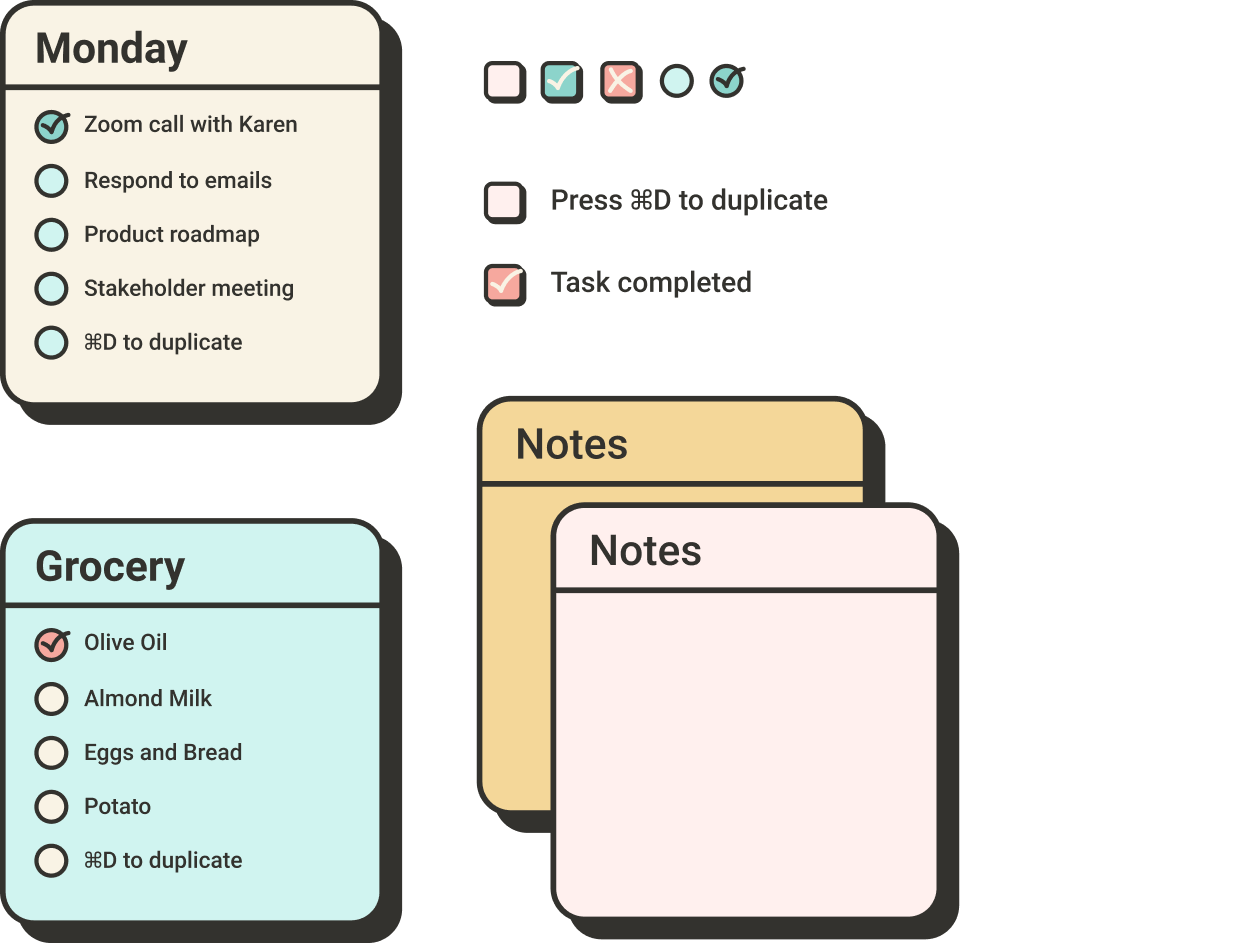
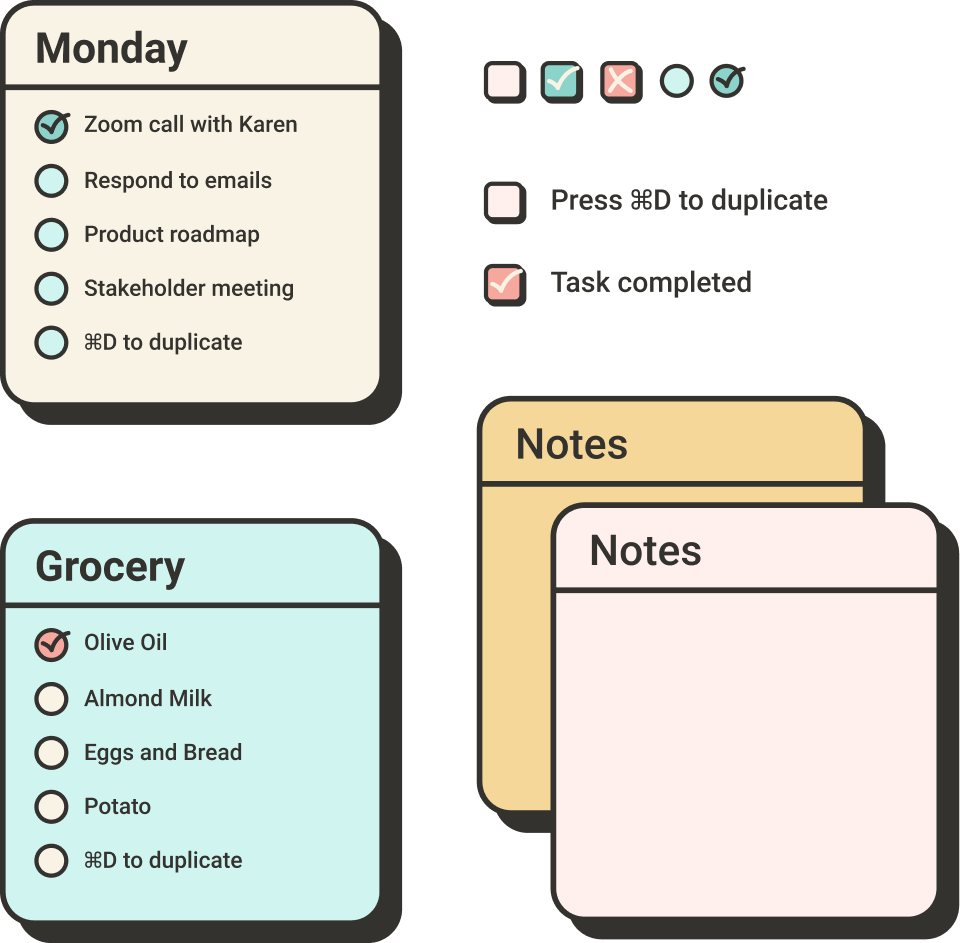
fix layout

diff --git a/style.css b/style.css
@@ -1,11 +1,60 @@
 @import url('https://fonts.googleapis.com/css2?family=Roboto:wght@400;500;700;900&display=swap');
 
+/* http://meyerweb.com/eric/tools/css/reset/
+   v2.0 | 20110126
+   License: none (public domain)
+*/
+
+html, body, div, span, applet, object, iframe,
+h1, h2, h3, h4, h5, h6, p, blockquote, pre,
+a, abbr, acronym, address, big, cite, code,
+del, dfn, em, img, ins, kbd, q, s, samp,
+small, strike, strong, sub, sup, tt, var,
+b, u, i, center,
+dl, dt, dd, ol, ul, li,
+fieldset, form, label, legend,
+table, caption, tbody, tfoot, thead, tr, th, td,
+article, aside, canvas, details, embed,
+figure, figcaption, footer, header, hgroup,
+menu, nav, output, ruby, section, summary,
+time, mark, audio, video {
+	margin: 0;
+	padding: 0;
+	border: 0;
+	font-size: 100%;
+	font: inherit;
+	vertical-align: baseline;
+}
+/* HTML5 display-role reset for older browsers */
+article, aside, details, figcaption, figure,
+footer, header, hgroup, menu, nav, section {
+	display: block;
+}
+body {
+	line-height: 1;
+}
+ol, ul {
+	list-style: none;
+}
+blockquote, q {
+	quotes: none;
+}
+blockquote:before, blockquote:after,
+q:before, q:after {
+	content: '';
+	content: none;
+}
+table {
+	border-collapse: collapse;
+	border-spacing: 0;
+}
+
 body{
   font-family: 'Roboto', sans-serif;
   color: #33322E;
 }
 .container{
-  width: 1000px;
+  width: 1100px;
   margin: 0 auto;
 }
 
@@ -14,7 +63,7 @@ body{
 }
 
 .logo{
-  margin-top: 72px;
+  margin-top: 64px;
 }
 
 .logo a img{
@@ -24,32 +73,138 @@ body{
 .content{
   display: flex;
   justify-content: space-between;
-  margin-top: 100px;
+  margin-top: 30px;
 }
 
 .content .text-data{
-  width: 50%;
+  width: 48%;
+}
+
+.text-data p{
+  font-size: 22px;
+  padding: 18px 0;
+  line-height: 130%;
+  width: 90%;
+  margin: 0;
 }
 
 .text-data h1{
-  font-size: 50px;
-  margin-bottom: 12px;
+  font-size: 60px;
+  margin-bottom: 16px;
+  margin-top: 100px;
+  letter-spacing: -1.8px;
   font-weight: 800;
-  line-height: 62px;
+  line-height: 64px;
 }
+
 .content .screenshot{
   width: 50%;
+  display: flex;
+  align-items: center;
 }
 
 .screenshot img{
   width: 100%;
+  margin-top: 60px;
+}
+
+.btns{
+  margin-top: 20px;
 }
 
 .download{
-  background-color: #33322e;
-  color: #fff;
   display: inline-block;
-  padding: 12px 24px;
-  border-radius: 8px;
+  padding: 18px 32px;
+  border-radius: 12px;
+  font-size: 20px;
   text-decoration: none;
+}
+
+.download.fill{
+  background-color: #33322e;
+  border: 2px solid #33322e;
+  color: #fff;
+}
+
+.download.outline{
+  margin-left: 24px;
+  background-color: #ffffff;
+  border: 2px solid #33322e;
+  color: #33322e;
+}
+
+.footer{
+  margin-top: 30px;
+  padding: 32px 0;
+}
+
+.footer p{
+  font-size: 16px;
+}
+
+.footer p a{
+  color: #33322e;
+  text-decoration: none;
+  font-weight: 500;
+}
+
+
+@media only screen and (max-device-width: 480px){
+
+  .container{
+    width: 100%;
+    margin: 0;
+    text-align: center;
+  }
+
+  .content{
+    display: flex;
+    justify-content: space-between;
+    margin-top: 10px;
+    flex-direction: column;
+  }
+
+  .content .text-data{
+    width: 100%!important;
+    padding: 18px;
+  }
+
+  .text-data p{
+    font-size: 22px;
+    padding: 18px 0;
+    width: 100%;
+    margin: 0;
+  }
+
+  .text-data h1{
+    font-size: 54px;
+    margin-bottom: 16px;
+    margin-top: 50px;
+    letter-spacing: -1.8px;
+    font-weight: 800;
+    line-height: 64px;
+  }
+
+  .content .screenshot{
+    width: 100%!important;
+    display: flex;
+    align-items: center;
+    padding: 18px;
+  }
+
+  .screenshot img{
+    width: 100%;
+    margin-top: 10px;
+  }
+
+  .download{
+    width: 80%;
+  }
+  .download.outline{
+    margin-left: 0;
+    background-color: #ffffff;
+    border: 2px solid #33322e;
+    color: #33322e;
+    margin-top: 24px;
+  }
 }

diff --git a/index.html b/index.html
@@ -2,21 +2,26 @@
 <html lang="en" dir="ltr">
   <head>
     <meta charset="utf-8">
-    <title></title>
+    <link rel="icon" href="img/noted.png" type="image/png" sizes="16x16">
+    <meta name="viewport" content="width=device-width, initial-scale=1.0">
+    <title>Noted by Aakarshna</title>
     <link rel="stylesheet" href="style.css">
   </head>
   <body>
     <section>
       <div class="container">
         <div class="hero-wrap">
-          <div class="logo">
-            <a href="#"><img src="img/logo.png" alt=""></a>
-          </div>
           <div class="content">
             <div class="text-data">
-              <h1>Level up your Note taking in figma</h1>
-              <p>While creating notes in figma it’s super easy now. you can check any one from the the given template and wow.</p>
-              <a href="#" class="download">Get figma</a>
+              <div class="logo">
+                <a href="#"><img src="img/logo.png" alt=""></a>
+              </div>
+              <h1>Level up your note taking on Figma</h1>
+              <p>Great things are done by a series of small todo lists brought together.</p>
+              <div class="btns">
+                <a href="#" class="download fill">Get Figma file</a>
+                <a href="#" class="download outline">Buy me a coffee</a>
+              </div>
             </div>
             <div class="screenshot">
               <img src="img/noted-notes.png" alt="">
@@ -28,7 +33,9 @@
     </section>
     <footer>
       <div class="container">
-        <p>Widgets made with ❤ by <a href="https://twitter.com/_aakarshna">aakarshna</a></p>
+        <div class="footer">
+          <p>Templates made with ❤ by <a href="https://twitter.com/_aakarshna">aakarshna</a></p>
+        </div>
       </div>
     </footer>
   </body>
